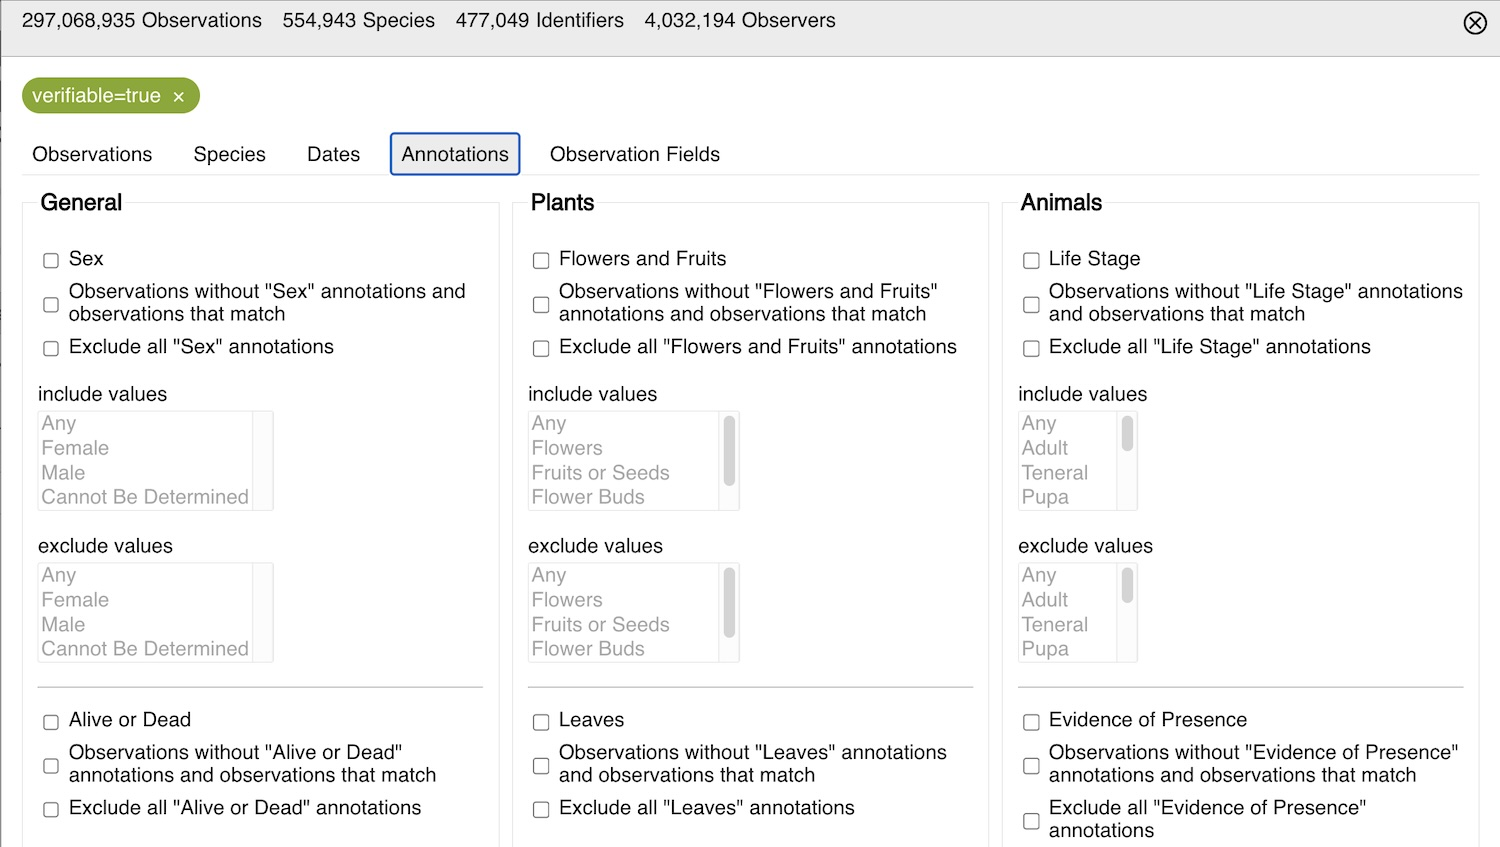
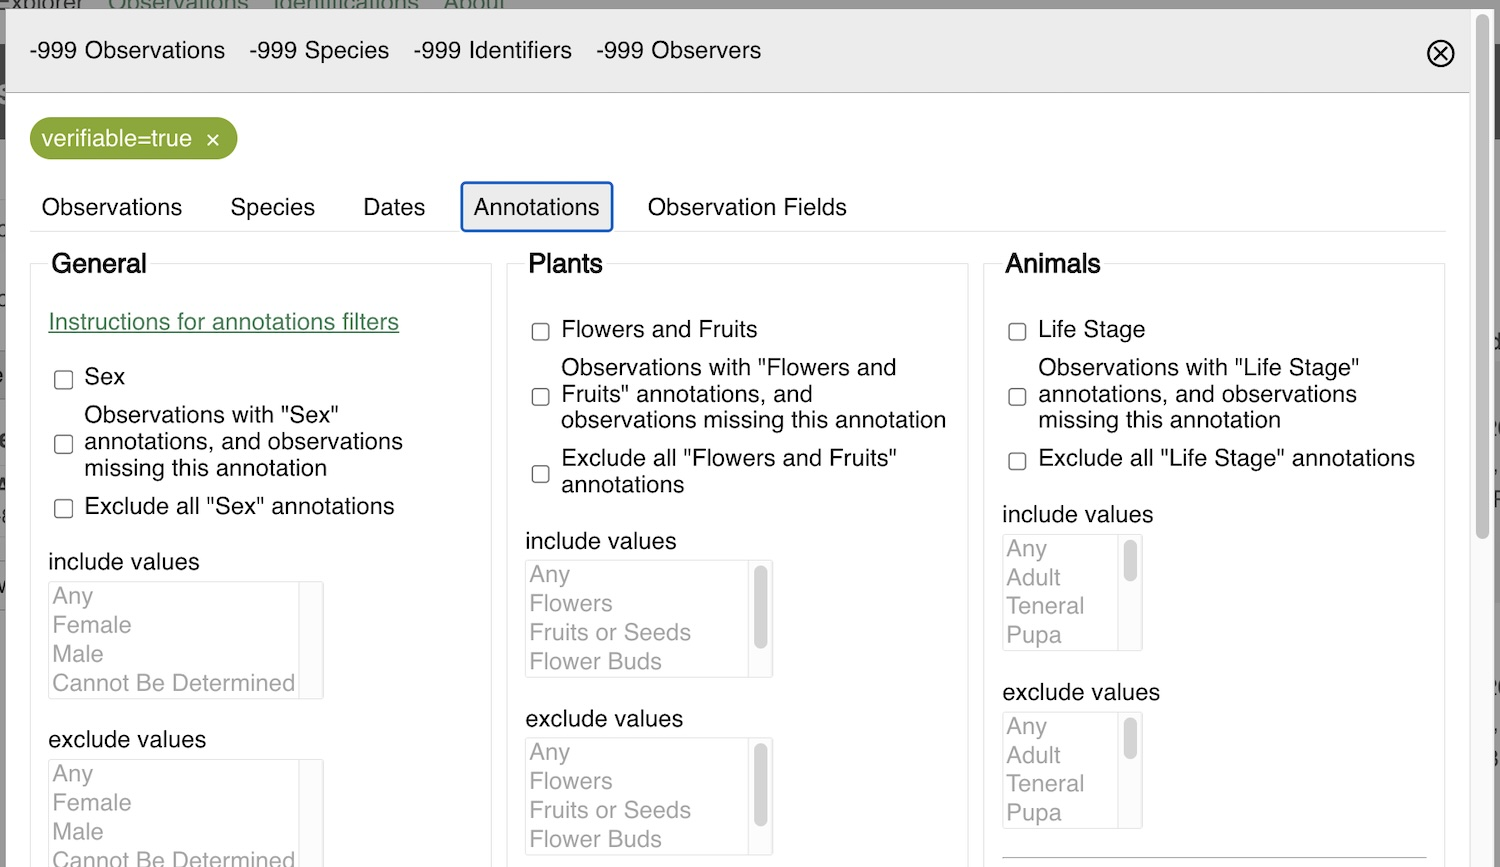
update about page

diff --git a/src/components/ObservationsFilters/template.ts b/src/components/ObservationsFilters/template.ts
@@ -780,8 +780,8 @@ const annotationPane = html` <div
         type="checkbox"
       />
       <label for="sex_unknown"
-        >Observations without "Sex" annotations and observations that
-        match</label
+        >Observations with "Sex" annotations, and observations missing this
+        annotation</label
       >
     </div>
 
@@ -829,7 +829,7 @@ const annotationPane = html` <div
     <hr />
 
     <!--alive or dead-->
-    <div class="form-check">
+    <div class="form-check mb-0">
       <input id="alive_dead" value="17" name="term_id" type="checkbox" />
       <label for="alive_dead">Alive or Dead</label>
     </div>
@@ -842,8 +842,8 @@ const annotationPane = html` <div
         type="checkbox"
       />
       <label for="alive_dead_unknown"
-        >Observations without "Alive or Dead" annotations and observations that
-        match</label
+        >Observations with "Alive or Dead" annotations, and observations missing
+        this annotation</label
       >
     </div>
 
@@ -893,7 +893,7 @@ const annotationPane = html` <div
     <hr />
 
     <!--Established-->
-    <div class="form-check">
+    <div class="form-check mb-0">
       <input id="established" value="33" name="term_id" type="checkbox" />
       <label for="established">Established</label>
     </div>
@@ -906,8 +906,8 @@ const annotationPane = html` <div
         type="checkbox"
       />
       <label for="established_unknown"
-        >Observations without "Established" annotations and observations that
-        match</label
+        >Observations with "Established" annotations, and observations missing
+        this annotation</label
       >
     </div>
 
@@ -968,8 +968,8 @@ const annotationPane = html` <div
         type="checkbox"
       />
       <label for="flowers_unknown"
-        >Observations without "Flowers and Fruits" annotations and observations
-        that match</label
+        >Observations with "Flowers and Fruits" annotations, and observations
+        missing this annotation</label
       >
     </div>
 
@@ -1021,7 +1021,7 @@ const annotationPane = html` <div
     <hr />
 
     <!--Leaves-->
-    <div class="form-check">
+    <div class="form-check mb-1">
       <input id="leaves" value="36" name="term_id" type="checkbox" />
       <label for="leaves">Leaves</label>
     </div>
@@ -1034,8 +1034,8 @@ const annotationPane = html` <div
         type="checkbox"
       />
       <label for="leaves_unknown"
-        >Observations without "Leaves" annotations and observations that
-        match</label
+        >Observations with "Leaves" annotations, and observations missing this
+        annotation</label
       >
     </div>
 
@@ -1100,8 +1100,8 @@ const annotationPane = html` <div
         type="checkbox"
       />
       <label for="life_stage_unknown"
-        >Observations without "Life Stage" annotations and observations that
-        match</label
+        >Observations with "Life Stage" annotations, and observations missing
+        this annotation</label
       >
     </div>
 
@@ -1161,7 +1161,7 @@ const annotationPane = html` <div
     <hr />
 
     <!--Evidence of Presence-->
-    <div class="form-check">
+    <div class="form-check mb-1">
       <input id="presence" value="22" name="term_id" type="checkbox" />
       <label for="presence">Evidence of Presence</label>
     </div>
@@ -1174,8 +1174,8 @@ const annotationPane = html` <div
         type="checkbox"
       />
       <label for="presence_unknown"
-        >Observations without "Evidence of Presence" annotations and
-        observations that match</label
+        >Observations with "Evidence of Presence" annotations, and observations
+        missing this annotation</label
       >
     </div>
 

diff --git a/src/components/PageAbout/template.ts b/src/components/PageAbout/template.ts
@@ -238,13 +238,13 @@ export const template = html`
             <li>The second option return observations match the annotation types
             and values and observations that do not have the annotation types
             filled out (term_id_or_unknown + term_value_id, term_id_or_unknown + without_term_value_id).
-            Click on the 'Observations without...' checkbox, and the 'include values'
+            Click on the 'Observations with...' checkbox, and the 'include values'
             and 'exclude values' menus become active. You can look
-            for observations don't have 'Life Stage' filled out and observations
-            that are not adult.  Click 'Observations without Life Stage
-            annotations and observations that match', and select 'Adult' from
+            for observations that are not adult and observations don't have 'Life Stage'
+            filled out. Click 'Observations with Life Stage annotations, and
+            observations missing this annotation', and select 'Adult' from
             'exclude values'. <p>Note: <a href='https://forum.inaturalist.org/t/term-id-or-unknown-query-parameter-not-working-with-term-value-id/52510/7'>There is a bug</a>
-            with 'Observations without...' and 'includes values'
+            with 'Observations with...' and 'includes values'
             (term_id_or_unknown & term_value_id)</p></li>
 
             <li>The third option lets you search for observations that do not have
